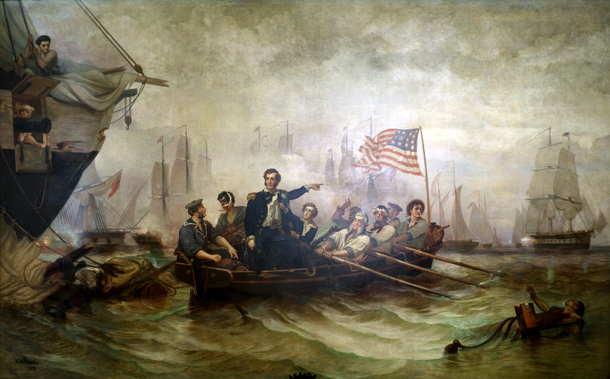
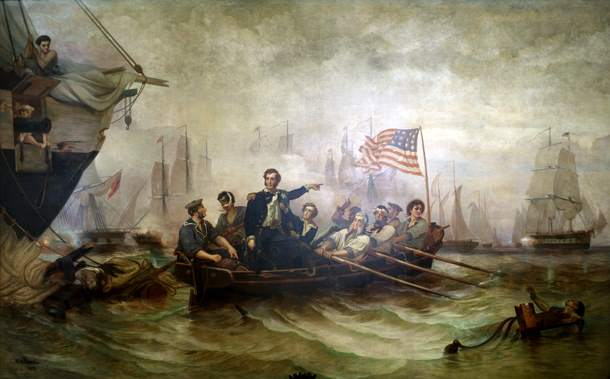
reduced image size, optimize site loading speed

diff --git a/index.html b/index.html
@@ -93,7 +93,7 @@ permalink: /
 							</article>
 							
 							<article id="contact" class="slide style1 center">
-								<img src="images/bg4.png" alt="" data-position="30% 50%" />
+								<img src="images/bg4.jpg" alt="" data-position="30% 50%" />
 								<div class="inner">
 									<h2>Neptune's Needle</h2>
 									<ul class="actions">
